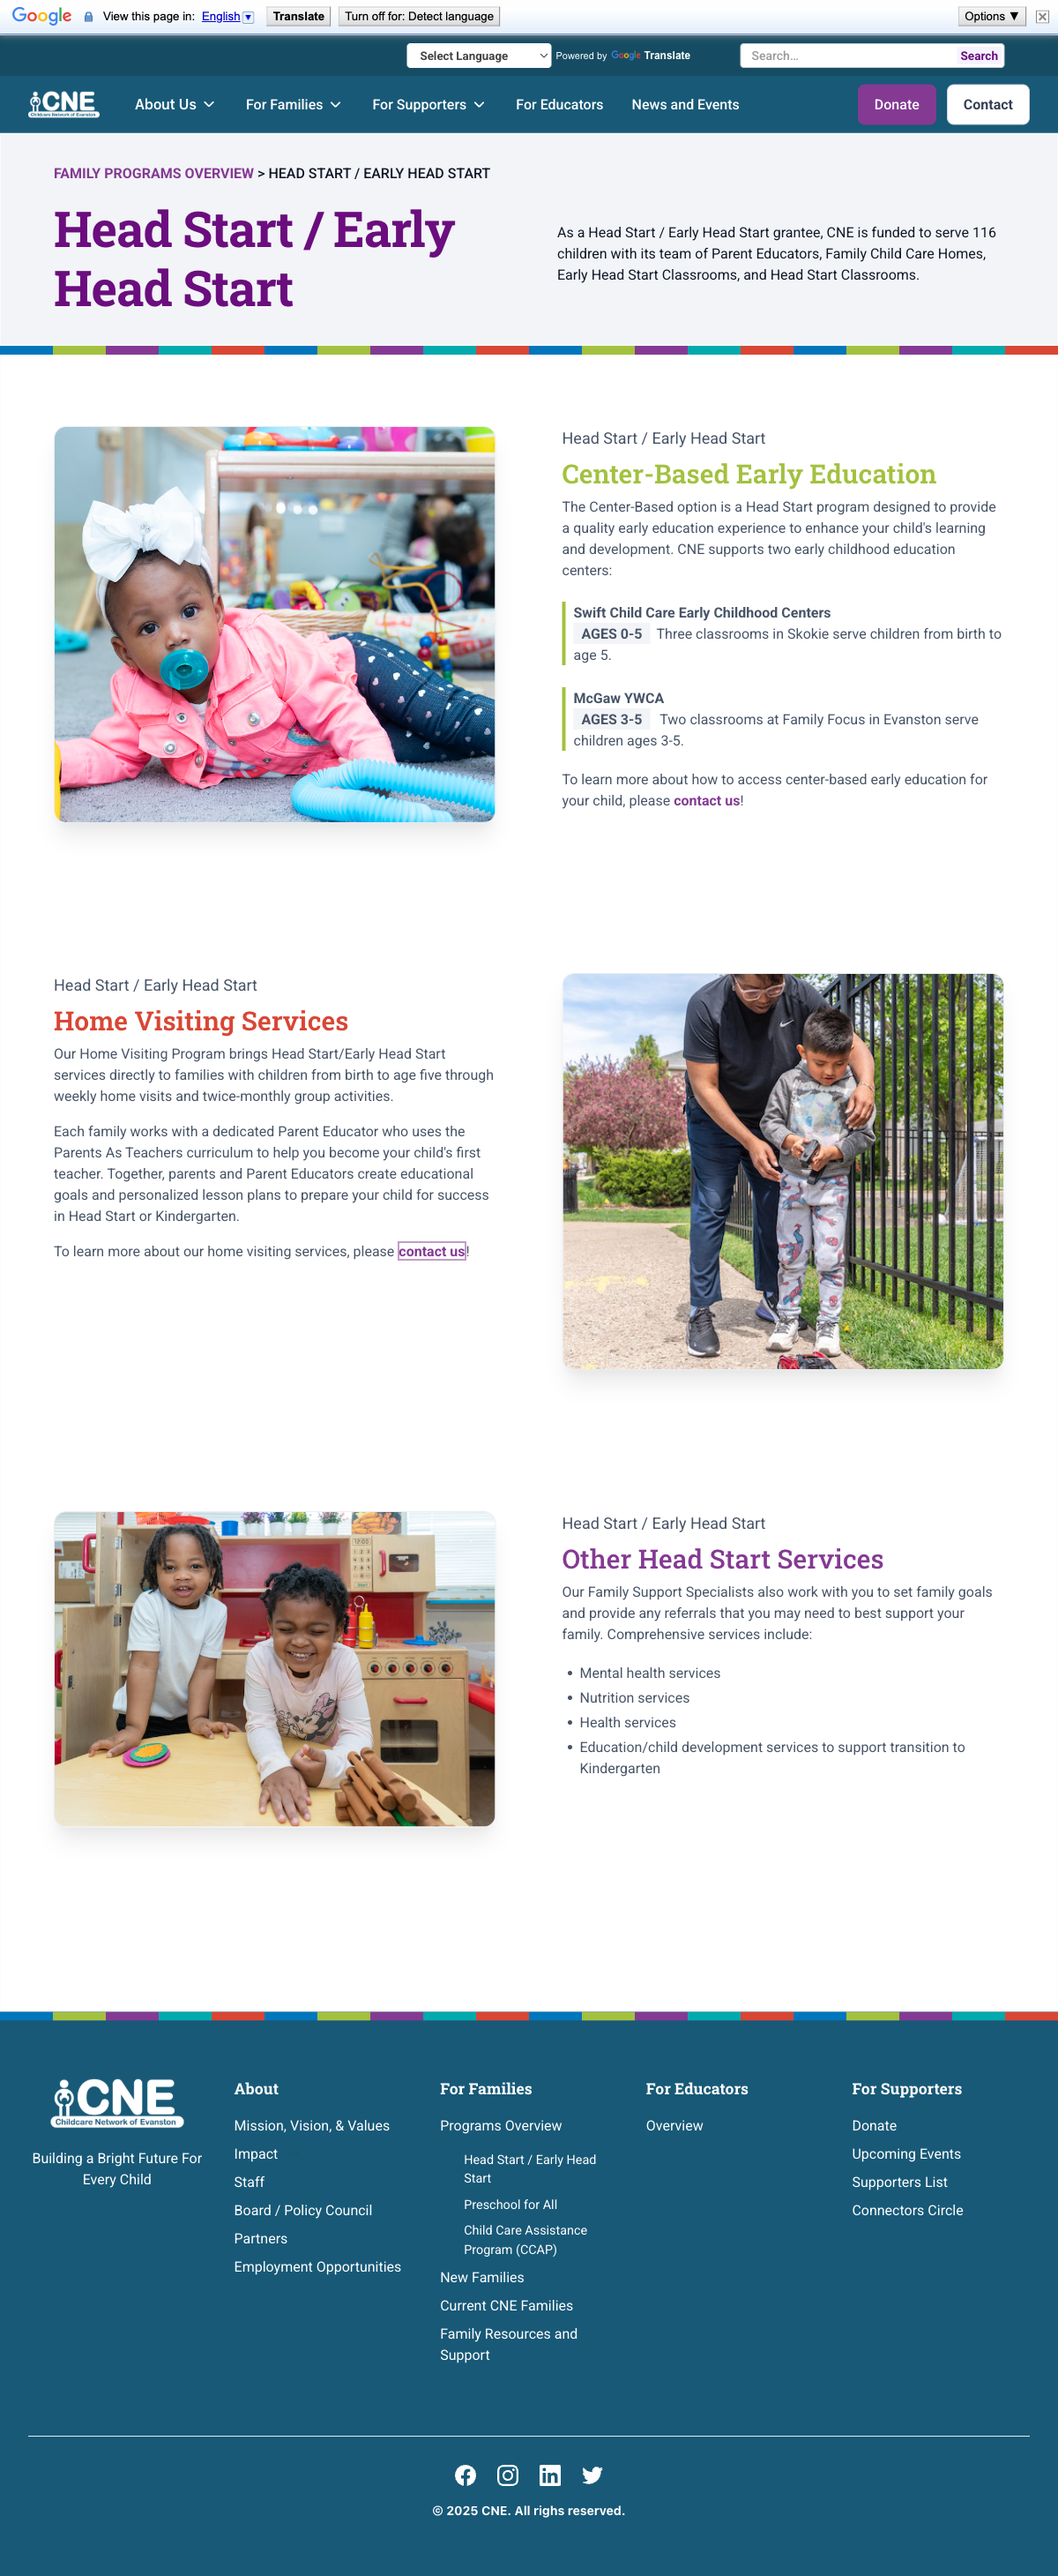
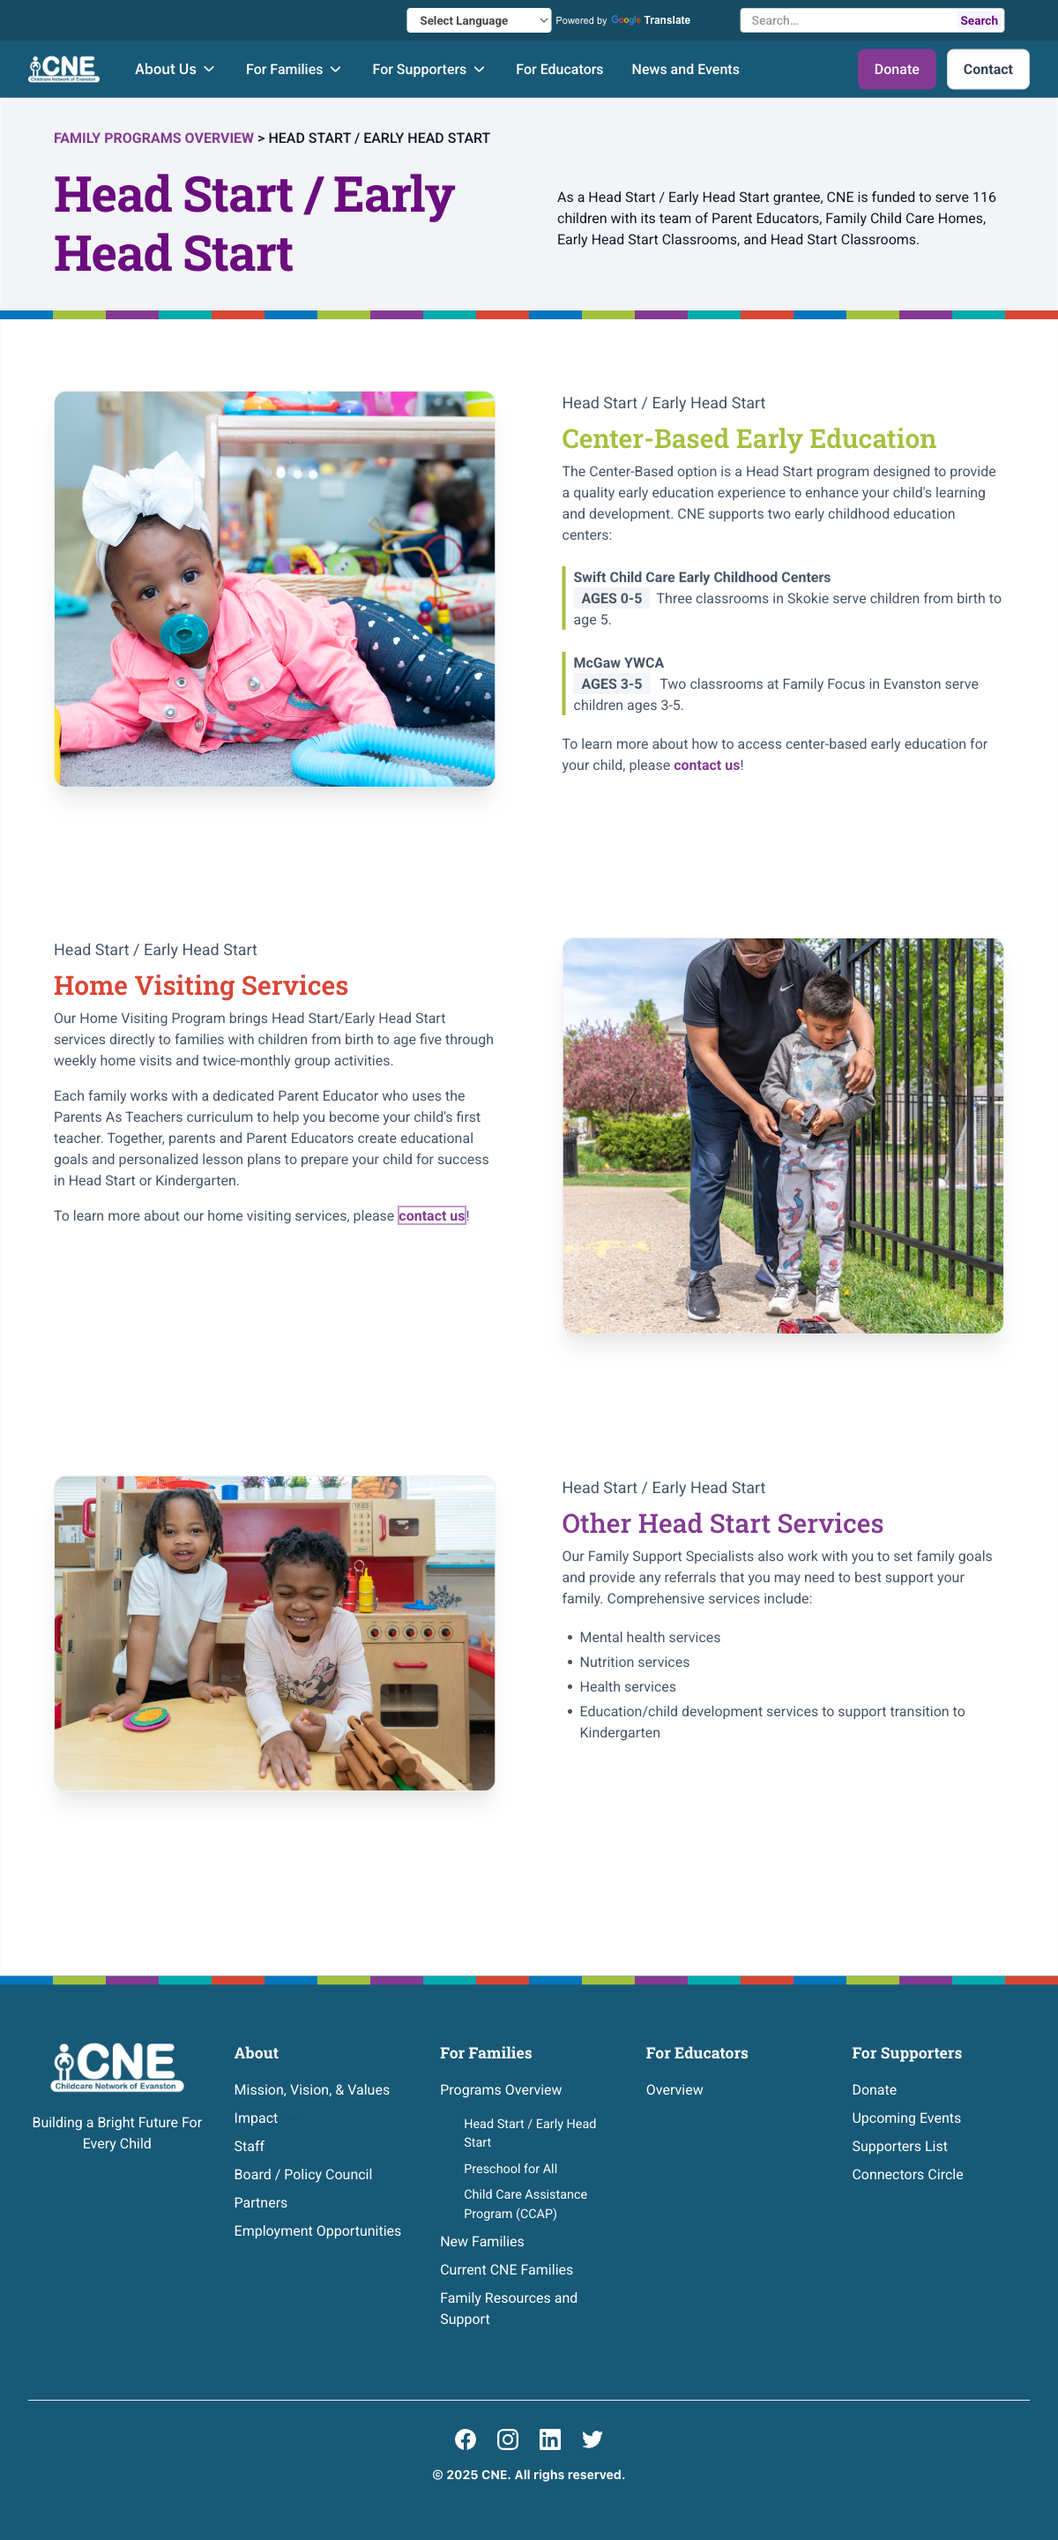
regenerated screenshots w/o Google Translate bar

diff --git a/index.html b/index.html
@@ -23,7 +23,7 @@
             <div class="shadow"></div>
         </div>
 
-        <div class="laptop">
+        <!-- <div class="laptop">
             <div class="content">
                 <img class="screenshot" src="./screenshots/desktop/before/cne-before.png" />
                 <div class="scroll-indicator">
@@ -32,7 +32,7 @@
             </div>
             <div class="btm"></div>
             <div class="shadow"></div>
-        </div>
+        </div> -->
 
         <div class="laptop">
             <div class="content">
@@ -49,33 +49,33 @@
     <div class="mobile">
 
         <figure class='iphone'>
-            <img class="screenshot" src="./screenshots/ccap.png" />
+            <img class="screenshot" src="./screenshots/mobile/ccap.png" />
             <div class="scroll-indicator">
                 <div class="scroll-handle"></div>
             </div>
         </figure>
 
         <figure class='iphone'>
-            <img class="screenshot" src="./screenshots/impact.png" />
+            <img class="screenshot" src="./screenshots/mobile/impact.png" />
             <div class="scroll-indicator">
                 <div class="scroll-handle"></div>
             </div>
         </figure>
 
         <figure class='iphone'>
-            <img class="screenshot" src="./screenshots/homepage.png" />
+            <img class="screenshot" src="./screenshots/mobile/homepage.png" />
             <div class="scroll-indicator">
                 <div class="scroll-handle"></div>
             </div>
         </figure>
         <figure class='iphone'>
-            <img class="screenshot" src="./screenshots/head-start.png" />
+            <img class="screenshot" src="./screenshots/mobile/head-start.png" />
             <div class="scroll-indicator">
                 <div class="scroll-handle"></div>
             </div>
         </figure>
         <figure class='iphone'>
-            <img class="screenshot" src="./screenshots/p4a.png" />
+            <img class="screenshot" src="./screenshots/mobile/p4a.png" />
             <div class="scroll-indicator">
                 <div class="scroll-handle"></div>
             </div>
